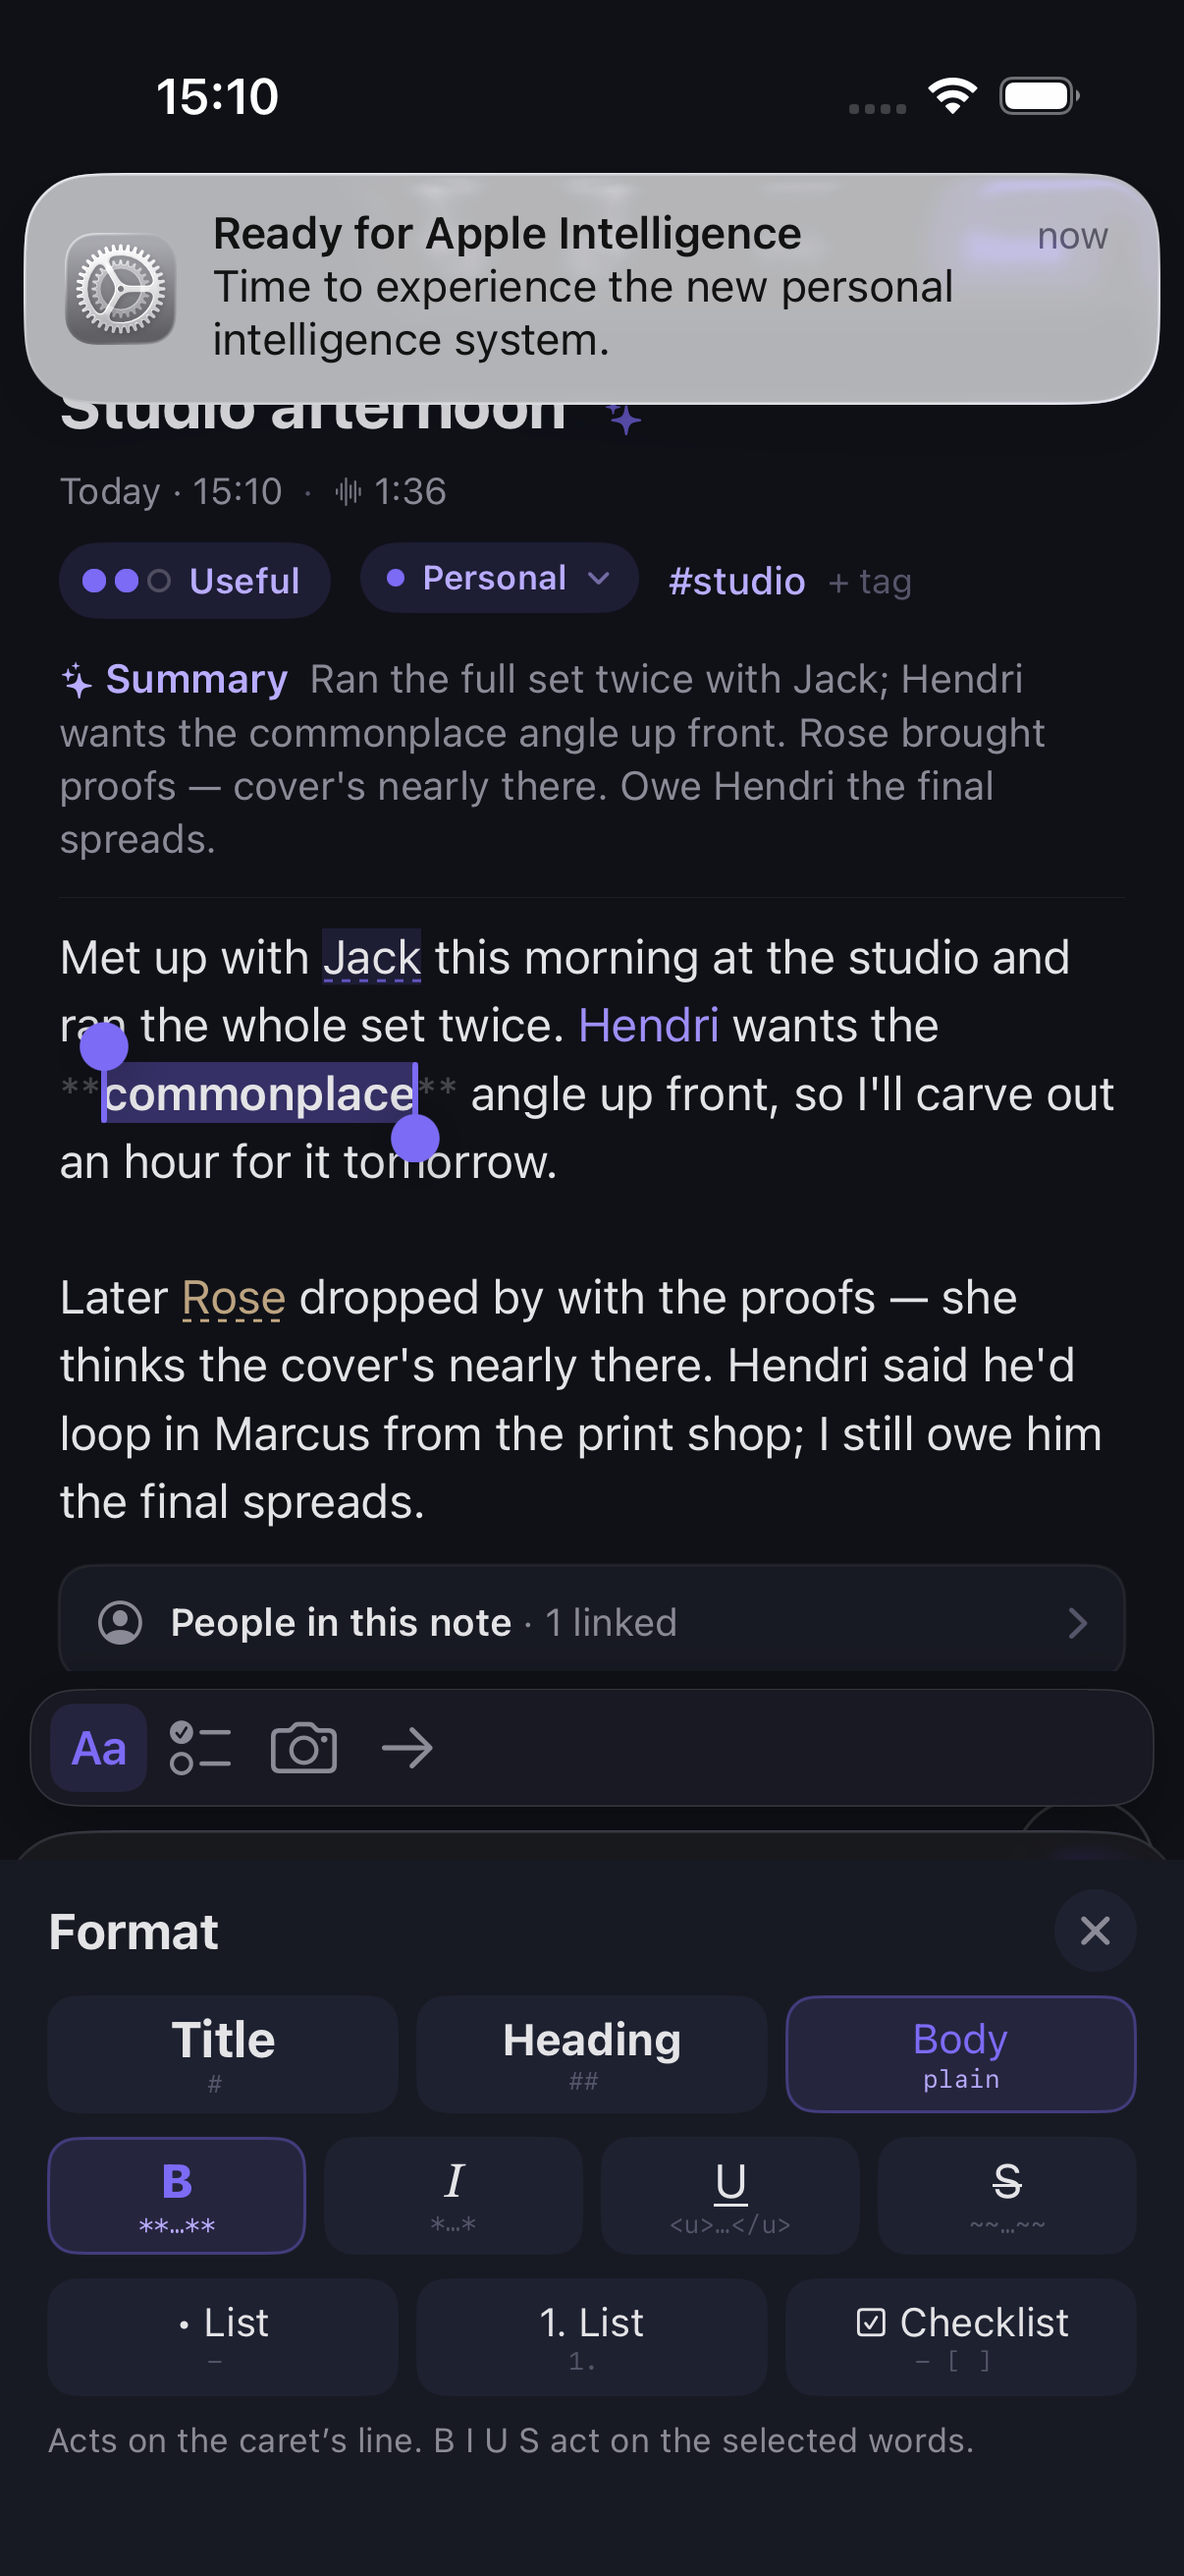
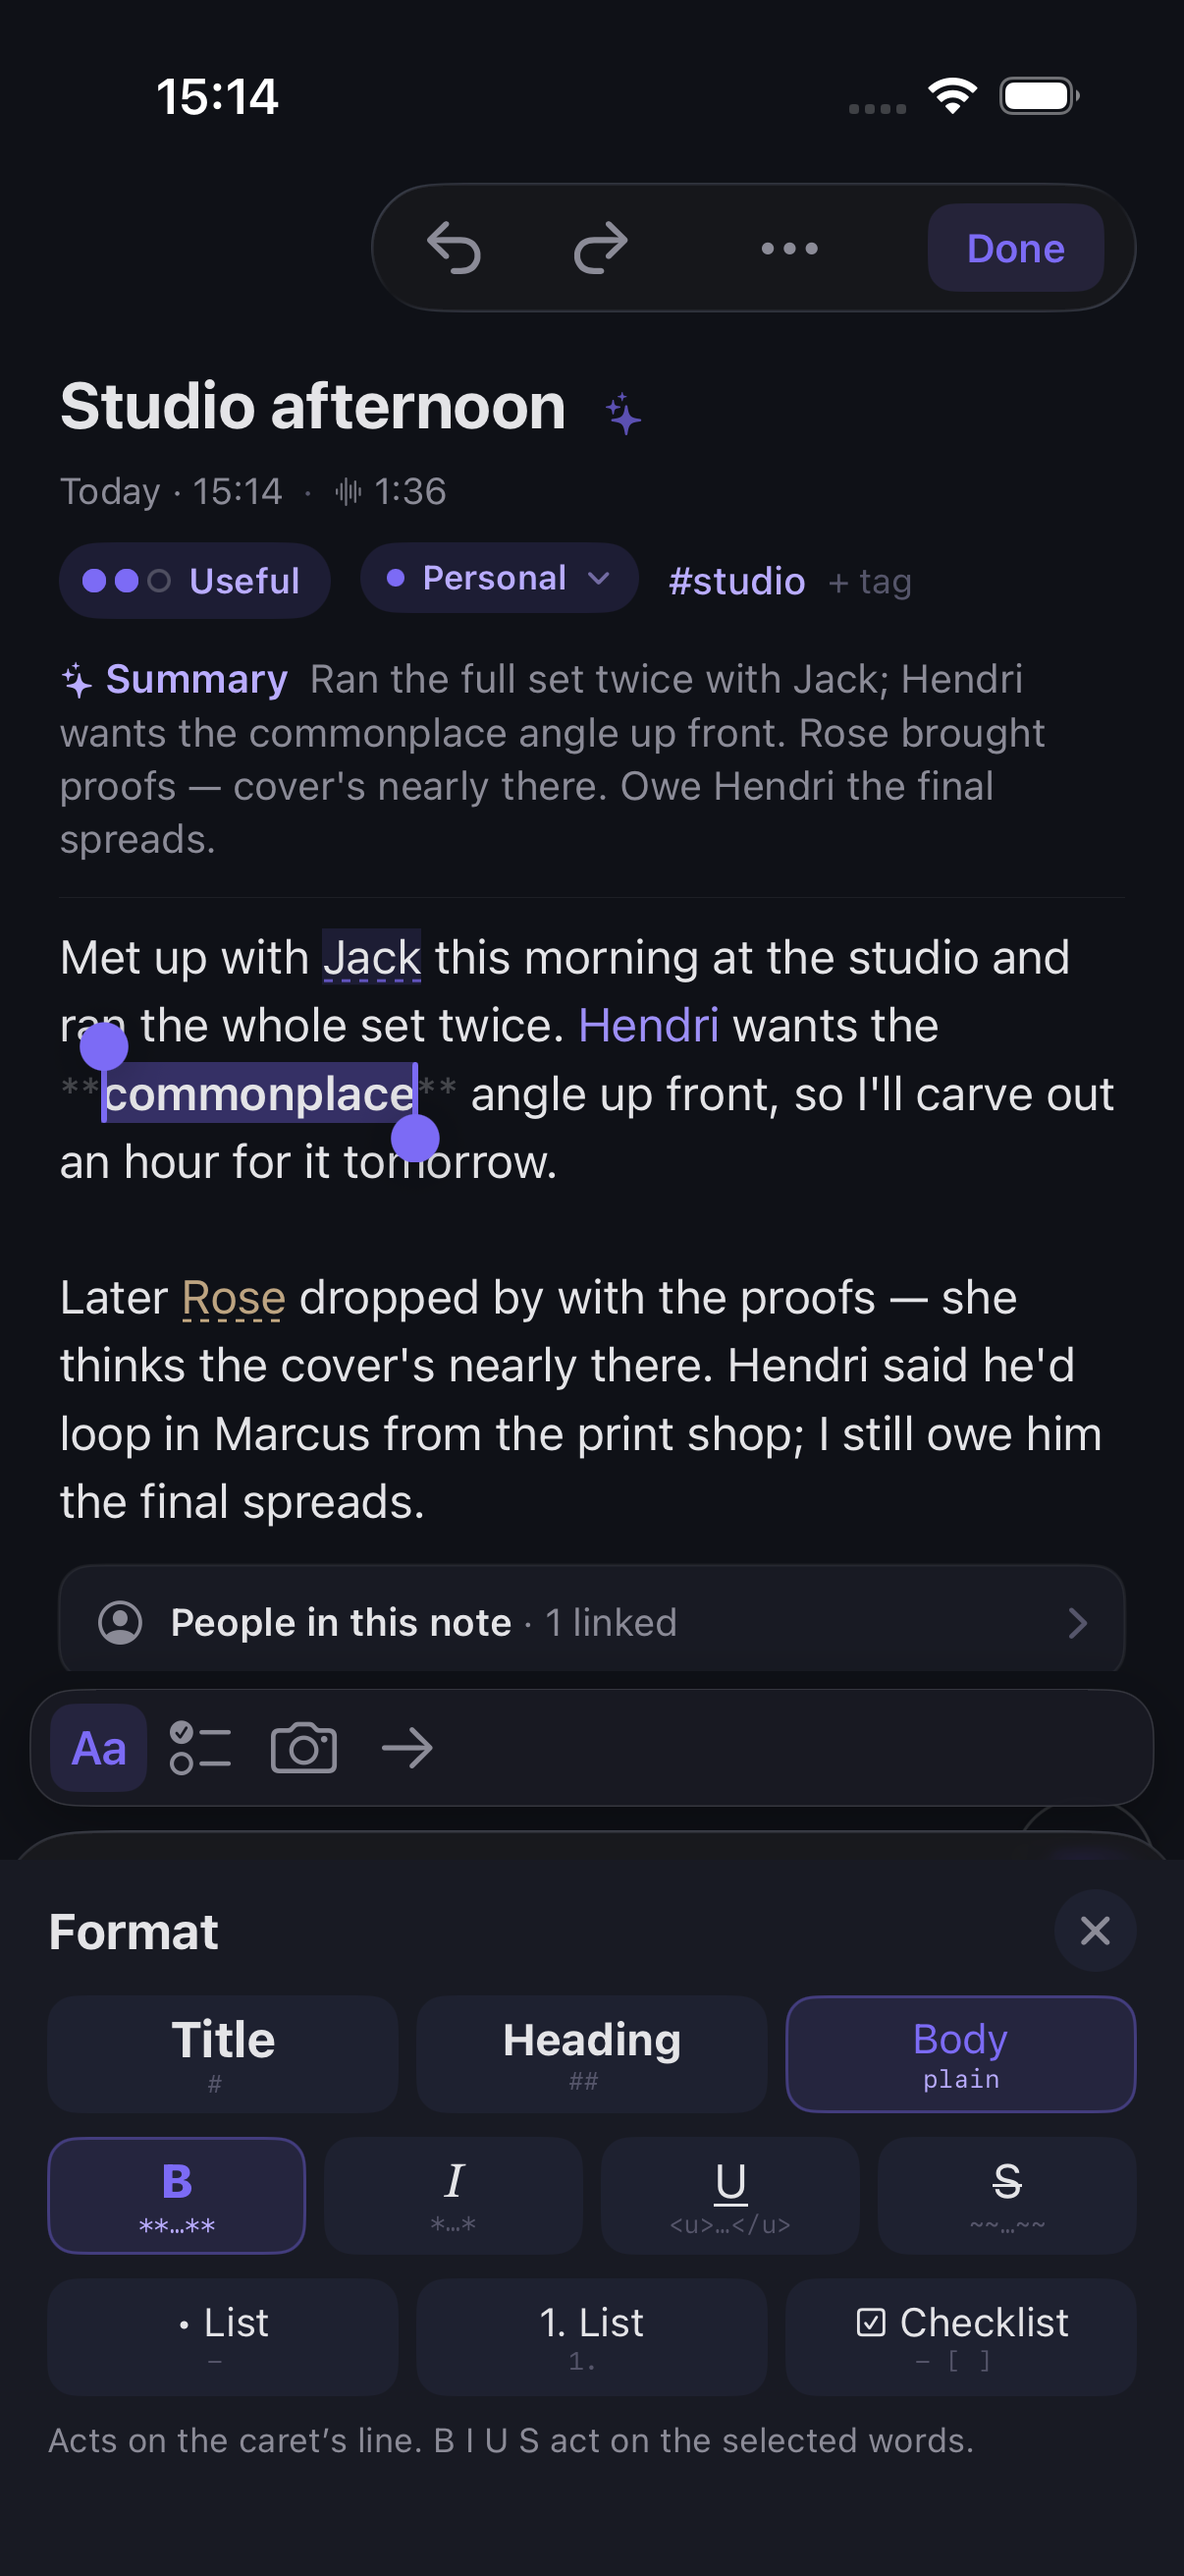
Q359 step 3: B I U S first in the selection bar, -seedPhotoMoveMemo, final phone PNGs (EditorFormattingTests 16 pass, NoteOpenWorkTests 10 pass, gate GREEN)

Changed region(s): [[0.0, 0.0309, 0.9818, 0.1545], [0.2148, 0.1854, 0.2454, 0.2162]]

diff --git a/Skrift_Native/SkriftMobile/App/DemoDataSeeder.swift b/Skrift_Native/SkriftMobile/App/DemoDataSeeder.swift
@@ -24,6 +24,7 @@ enum DemoDataSeeder {
         guard repo.allMemos().isEmpty else { return }
         if LaunchFlags.seedQuoteMemo { repo.insert(editedQuoteMemo()); return }
         if LaunchFlags.seedLongMemo { repo.insert(longMemo()); return }
+        if LaunchFlags.seedPhotoMoveMemo { repo.insert(photoTextMemo(paragraphs: true)); return }
         if LaunchFlags.seedConversationMemo { repo.insert(conversationMemo()); return }
         if LaunchFlags.seedVideoMemo { repo.insert(videoMemo()); return }
         if LaunchFlags.seedNameLinking { repo.insert(nameLinkingMemo()); return }
@@ -100,7 +101,7 @@ enum DemoDataSeeder {
     /// still nil — the device round-3/4 "photo search finds nothing" repro:
     /// the launch sweep must OCR it (REAL Vision) and the list search must
     /// then surface the memo.
-    static func photoTextMemo() -> Memo {
+    static func photoTextMemo(paragraphs: Bool = false) -> Memo {
         let id = UUID()
         let photoName = "photo_\(id.uuidString)_001.jpg"
         writeTextPhoto(to: AppPaths.recordingsDirectory.appendingPathComponent(photoName))
@@ -110,7 +111,9 @@ enum DemoDataSeeder {
             duration: 21,
             recordedAt: Date().addingTimeInterval(-1_800),
             syncStatus: .waiting,
-            transcript: "Snapped the tram stop sign on the way home. [[img_001]]",
+            transcript: paragraphs
+                ? "Snapped the tram stop sign on the way home.\n\n[[img_001]]\n\nThe old tiles are still there under the paint.\n\nI should ask the council whether they plan to restore the stop."
+                : "Snapped the tram stop sign on the way home. [[img_001]]",
             transcriptStatus: .done,
             transcriptConfidence: 0.9,
             metadata: MemoMetadata(

diff --git a/Skrift_Native/SkriftMobile/SkriftMobileUITests/EditorAppleQ359ScreenshotUITests.swift b/Skrift_Native/SkriftMobile/SkriftMobileUITests/EditorAppleQ359ScreenshotUITests.swift
@@ -63,14 +63,15 @@ final class EditorAppleQ359ScreenshotUITests: XCTestCase {
     }
 
     func testMoveAPhoto() {
-        let app = launch("-seedPhotoTextMemo")
+        let app = launch("-seedPhotoMoveMemo")
         openFirstNote(app)
         let editor = app.textViews["transcript-editor"]
         XCTAssertTrue(editor.waitForExistence(timeout: 25), "editor missing")
         capture(app, "phone-5-photo-before")
-        // The photo sits at ~0.485 of the screen height; drag it above its sentence (~0.33).
-        let app0 = app.coordinate(withNormalizedOffset: CGVector(dx: 0.5, dy: 0.485))
-        app0.press(forDuration: 1.0, thenDragTo: app.coordinate(withNormalizedOffset: CGVector(dx: 0.5, dy: 0.31)))
+        // Three paragraphs with the photo between 1 and 2 (~0.47 of the screen height): drag it
+        // up onto the first sentence (~0.29).
+        let app0 = app.coordinate(withNormalizedOffset: CGVector(dx: 0.5, dy: 0.47))
+        app0.press(forDuration: 1.0, thenDragTo: app.coordinate(withNormalizedOffset: CGVector(dx: 0.5, dy: 0.29)))
         capture(app, "phone-5-photo-after")
     }
 

diff --git a/Skrift_Native/SkriftMobile/App/LaunchArgs.swift b/Skrift_Native/SkriftMobile/App/LaunchArgs.swift
@@ -18,6 +18,9 @@ enum LaunchFlags {
     /// Seed a memo whose photo contains rendered text but is NOT yet OCR'd —
     /// the photo-search end-to-end fixture (launch sweep must index it).
     static var seedPhotoTextMemo: Bool { args.boolFlag("-seedPhotoTextMemo") }
+    /// Q359 (DEBUG): ONE note with three paragraphs and a photo between 1 and 2, for the
+    /// long-press-move-a-photo screenshot.
+    static var seedPhotoMoveMemo: Bool { args.boolFlag("-seedPhotoMoveMemo") }
     /// Seed ONE long memo (long transcript + an image marker) so a UI test can
     /// scroll content UNDER the glass player bar and screenshot the refraction.
     static var seedLongMemo: Bool { args.boolFlag("-seedLongMemo") }

diff --git a/Skrift_Native/SkriftMobile/Features/MemoDetail/NoteBodyView.swift b/Skrift_Native/SkriftMobile/Features/MemoDetail/NoteBodyView.swift
@@ -1072,7 +1072,9 @@ struct NoteBodyView: UIViewRepresentable {
                     a.discoverabilityTitle = label
                     return a
                 }
-                children.append(UIMenu(options: .displayInline, children: actions))
+                // First, so B I U S sit on the bar's first page (mock Q350). Appended after
+                // the system's Cut/Copy/Replace/AutoFill they landed behind the › overflow.
+                children.insert(UIMenu(options: .displayInline, children: actions), at: 0)
             }
             if let name = newPersonOffer(for: range, in: tv) {
                 let item = UIAction(title: NameActionLabel.newPerson,
